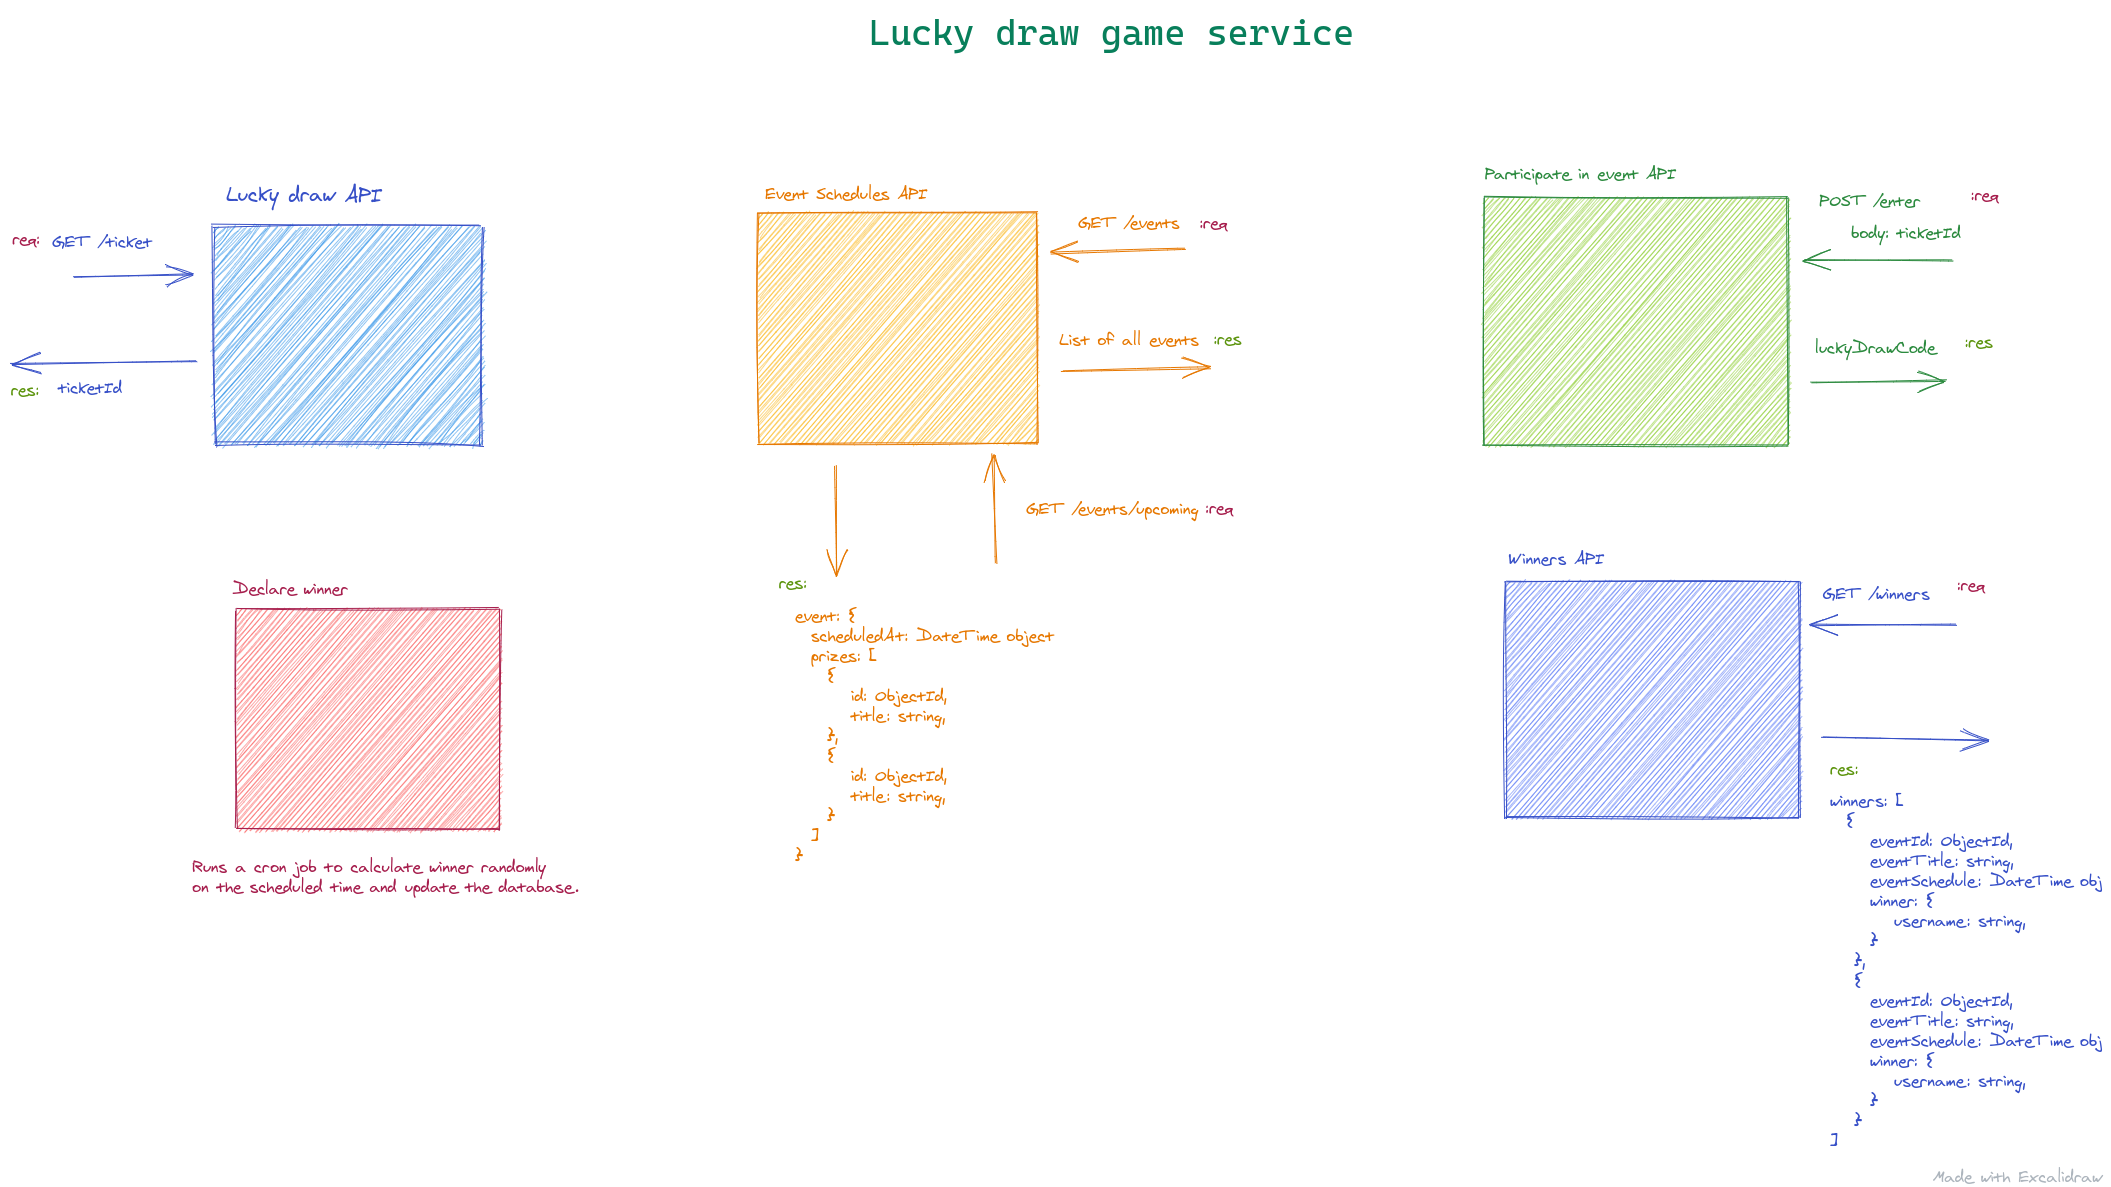
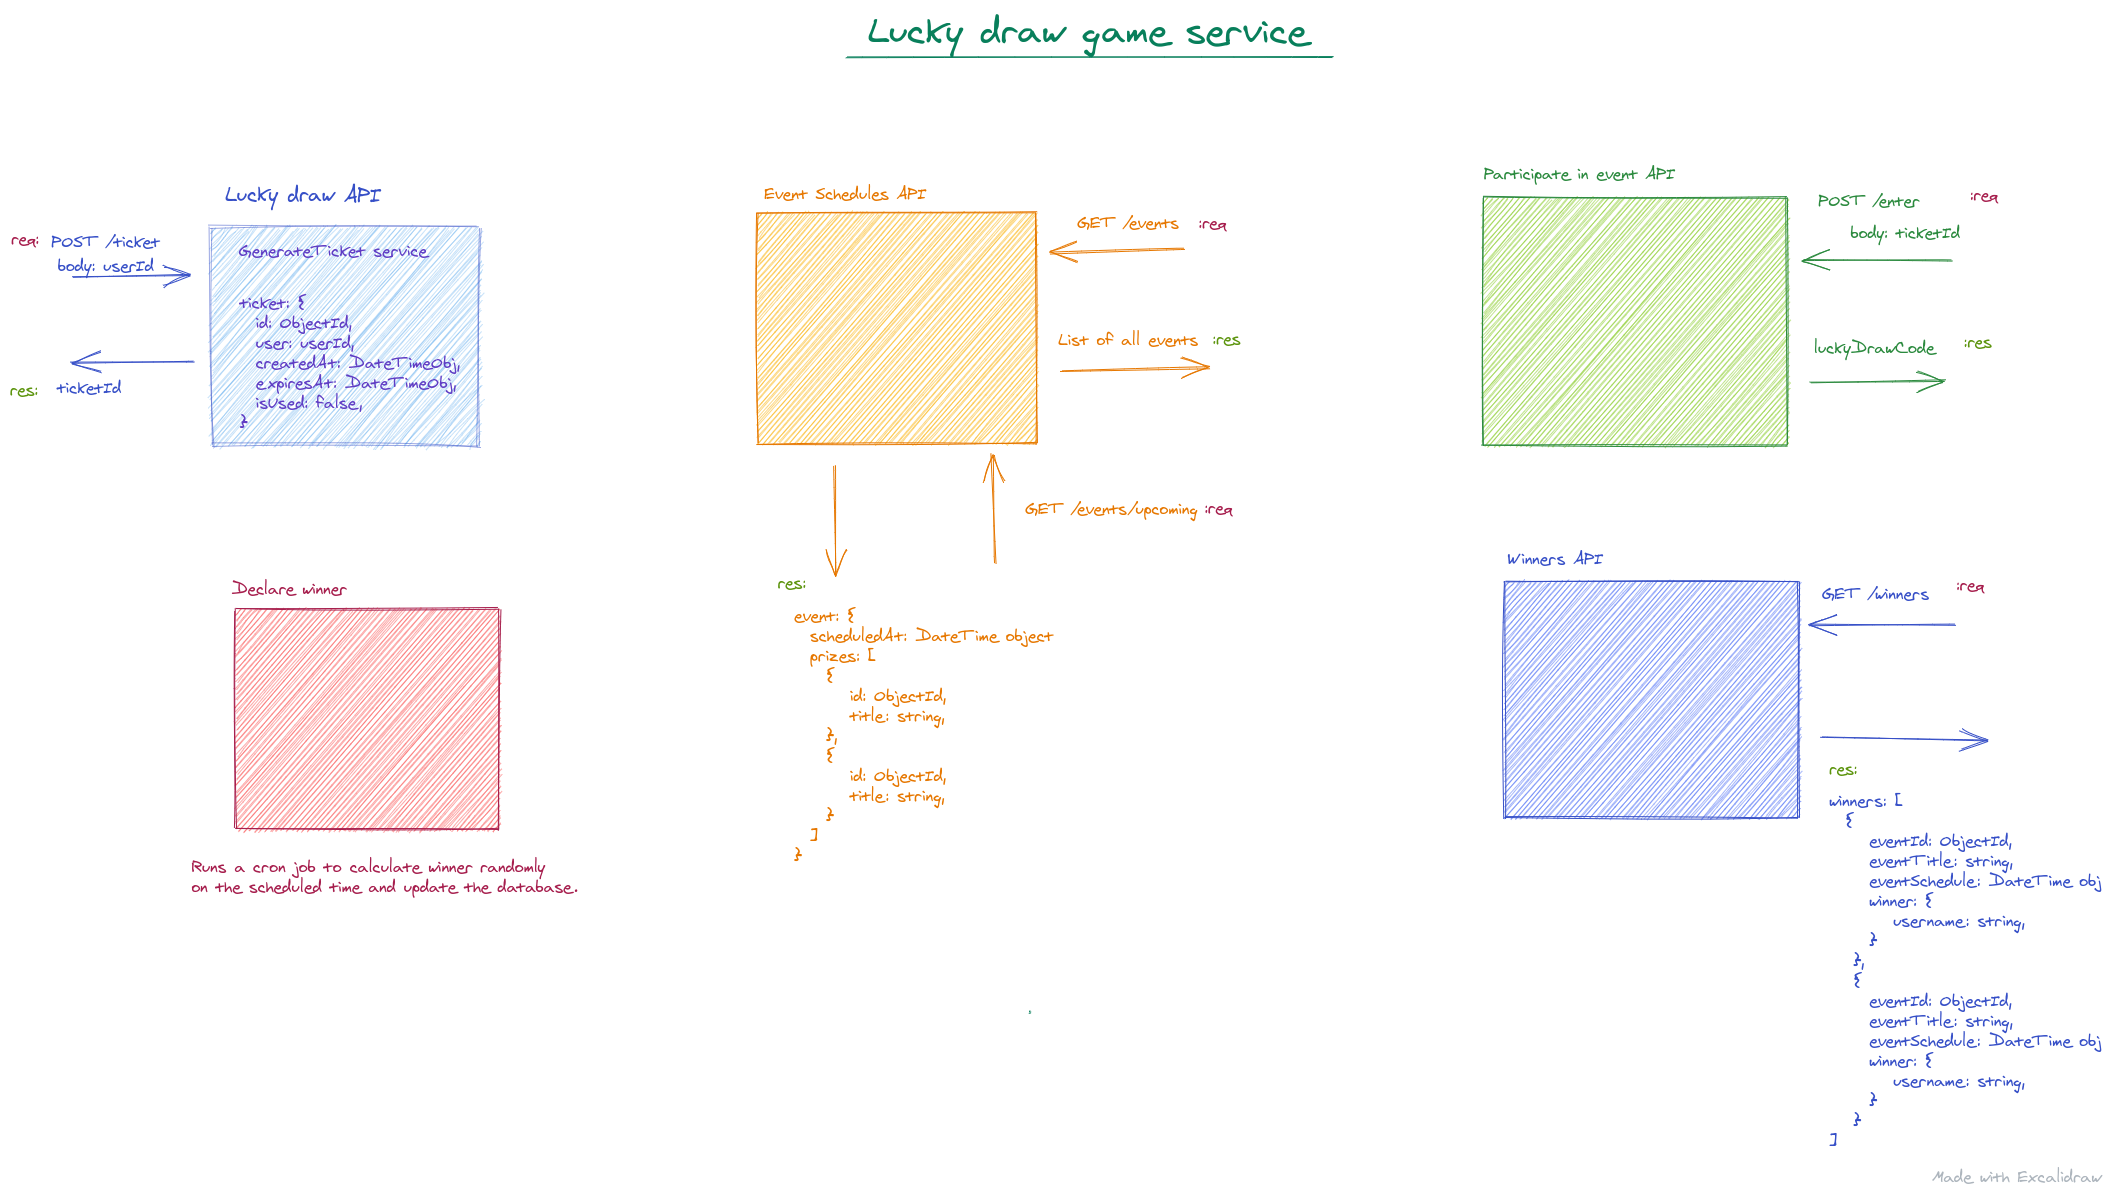
Add mongodb database

diff --git a/app.js b/app.js
@@ -2,11 +2,28 @@ const express = require("express");
 const app = express();
 const bodyParser = require("body-parser");
 const cors = require("cors");
+const mongoose = require("mongoose");
 
 // Local dependencies
 const middlewares = require("./utils/middlewares");
 
+// Get env variables
 require("dotenv").config();
+
+try {
+  mongoose.connect(
+    process.env.MONGO_URI || "mongodb://localhost:27017/lucky-draw-db",
+    {
+      useNewUrlParser: true,
+      useUnifiedTopology: true,
+      useFindAndModify: false,
+      useCreateIndex: true,
+    }
+  );
+  console.log("Connected to MongoDB server...");
+} catch (error) {
+  console.log("Error in connection to mongodb : ", error.message);
+}
 
 app.use(cors());
 app.use(bodyParser.urlencoded({ extended: true }));

diff --git a/README.md b/README.md
@@ -1,9 +1,11 @@
 # Lucky draw backend
 
 ## Problem statement
+
 Design & implement a service which allows users to get Lucky Draw Raffle tickets and use one lucky draw raffle ticket to participate in a lucky draw game.
 
 ### Requirements
+
 - Design an API which allows users to get the raffle tickets. This API can be consumed in a lot of ways like We can call this API after the user has placed an Order.
 - Design an API which shows the next Lucky Draw Event timing & the corresponding reward. For example - Lucky Draw can run everyday at 8AM. Reward on say 10th Feb is Phone, 11th Feb is Washing Machine etc.
 - Design an API which allows users to participate in the game. Once a user has participated with a raffle ticket, they shouldn’t be able to participate again in the same event.
@@ -11,45 +13,61 @@ Design & implement a service which allows users to get Lucky Draw Raffle tickets
 - Compute the winner for the event and announce the winner.
 
 ## Design
+
 ![Lucky draw design](/static/luckydraw-design.png)
 
 ## Tech stack
+
 - APIs : Node.js, Express.js, Cron jobs
 - Database : MongoDB
 
 ## Setup
 
 1. Clone the repo
+
 #### `git clone https://github.com/ayushjainrksh/lucky-draw-backend.git`
+
 2. Install dependencies
+
 #### `npm install`
+
 3. Add env file
+
 #### `touch .env`
+
 4. Add following to env
+
 ```
-JWT_ENCRYPTION = <encryption token>
-JWT_EXPIRATION = <expiration time>
 MONGO_URI = <add a mongodb atlas URI or you can leave it to use your local mongodb database>
 ```
+
 5. Start the server
+
 #### `npm start`
 
 ## APIs
 
 ### Lucky Draw service
+
 To get raffle ticket
+
 - `GET /ticket`
 
 ### Event schedule service
+
 Get event timings and prizes
+
 - `GET /events`
 - `GET /events/upcoming`
 
 ### Participate service
+
 - `POST /enter`
 
 ### Winners service
+
 - `GET /winners`
 
 ### Declare winner service
+
 Runs a cron job to pick the winner and update the database.
